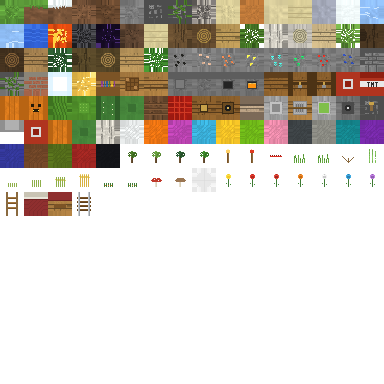
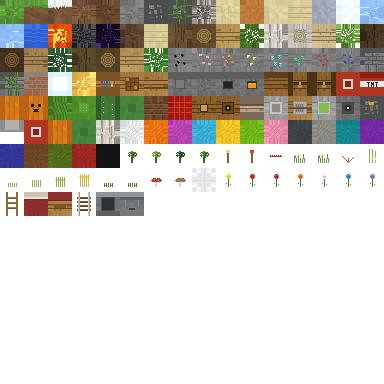
Add hoppers: container-to-container item automation
A hopper holds five slots, pushes one item into the container it faces and
pulls one out of the container above it, once every other container tick.
The container tick loop now only does work for furnaces and hoppers.

Changed region(s): [[0.25, 0.5, 0.375, 0.5625]]

diff --git a/tools/gen_textures.py b/tools/gen_textures.py
@@ -653,6 +653,25 @@ def tex_workstation(kind: str, seed: int = 40) -> Canvas:
     raise ValueError(f"unknown workstation texture: {kind}")
 
 
+def tex_hopper(kind: str) -> Canvas:
+    """Hopper: a metal funnel (top) and a bucket-shaped body (sides)."""
+    canvas = noise_canvas(50, "#6f7276", contrast=0.12, scale=4.0)
+    if kind == "top":
+        canvas.rect(1, 1, TILE - 2, TILE - 2, "#4a4d50")      # funnel mouth
+        canvas.rect(2, 2, TILE - 4, TILE - 4, "#2f3133")
+        canvas.rect(0, 0, TILE, 1, "#8f9397")
+        canvas.rect(0, TILE - 1, TILE, 1, "#5c5f63")
+        return canvas
+    canvas.rect(0, 0, TILE, 1, "#8f9397")
+    canvas.rect(0, 1, TILE, 3, "#5c5f63")                       # rim
+    for y in range(4, 11):
+        canvas.rect(1, y, 1, 1, "#8f9397")                      # tapered body
+        canvas.rect(TILE - 2, y, 1, 1, "#8f9397")
+    canvas.rect(4, 11, 8, 4, "#7c8085")                         # spout
+    canvas.rect(5, 12, 6, 2, "#3f4245")
+    return canvas
+
+
 def tex_rail() -> Canvas:
     """Minecart track: two metal rails over wooden sleepers."""
     canvas = Canvas(TILE)

diff --git a/tools/gen_assets.py b/tools/gen_assets.py
@@ -139,6 +139,8 @@ def build_block_tiles() -> dict[str, Canvas]:
     add("bed_top", gt.tex_bed("top"))
     add("bed_side", gt.tex_bed("side"))
     add("rail", gt.tex_rail())
+    add("hopper_top", gt.tex_hopper("top"))
+    add("hopper_side", gt.tex_hopper("side"))
     return tiles
 
 

diff --git a/README.md b/README.md
@@ -12,7 +12,7 @@ registries are data-driven, and every script is plain GDScript with no external
 addons.
 
 <p align="center">
-  <em>122 block types, 353 items, 96 recipes, 11 biomes, 10 mob types, 39 sounds,
+  <em>123 block types, 353 items, 97 recipes, 11 biomes, 10 mob types, 39 sounds,
   villages, dungeons, mineshafts and ENet multiplayer.</em>
 </p>
 
@@ -80,6 +80,9 @@ addons.
   into ingots and raw meat into cooked meat.
 - **Death and respawn** — inventory drops (unless "keep inventory" is on) and the
   player respawns at the world spawn three seconds later.
+- **Hoppers** — five iron and a chest. A hopper pushes an item into whatever
+  container it faces, and pulls one out of the container sitting on top of it,
+  so a line of them moves a mine's worth of ore into your chests on its own.
 - **Beds** — three wool over three planks. Right-click one at night to sleep
   through to dawn and move your respawn point to the bed; it refuses while
   monsters are within eight blocks, so night is not a free pass.
